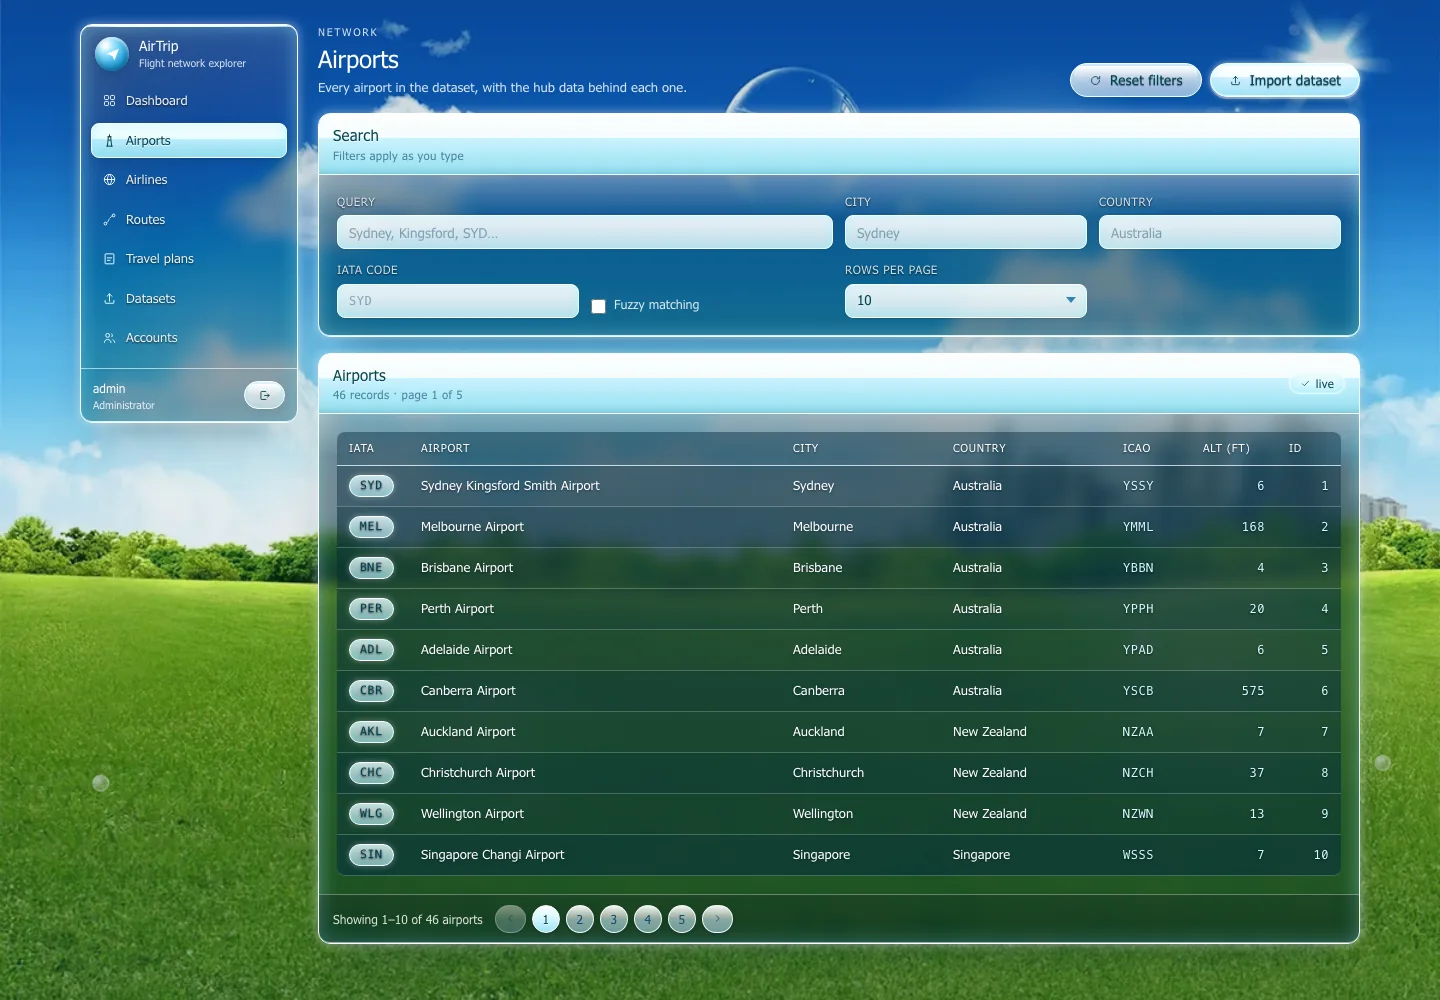
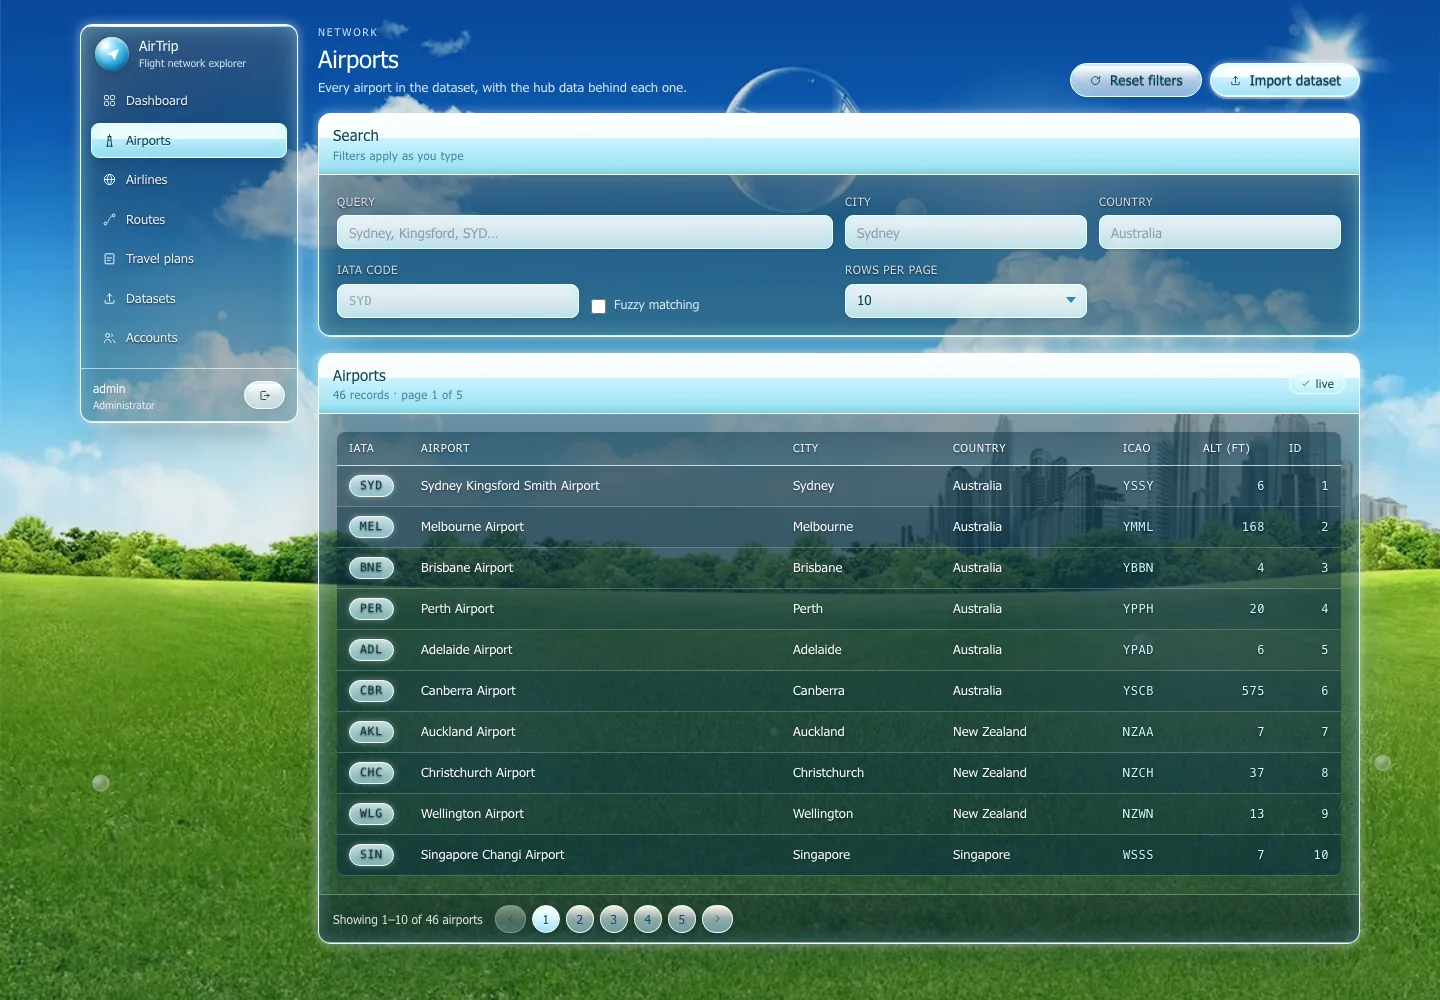
Keep the wallpaper crisp behind the glass
The frosted backdrop is gone: both engines now show the photograph as it is and
the panels only carry tint, rim and glow. ?frost=1 restores the blurred recipe.

diff --git a/airtrip-web/src/styles/theme-aqua.css b/airtrip-web/src/styles/theme-aqua.css
@@ -426,13 +426,23 @@
 /* The css minifier keeps only the last of a prefixed/unprefixed pair, which left
    Chrome without a blur while Safari still used the -webkit- copy. Declaring the
    standard property in its own @supports block keeps both engines frosted. */
+/* The wallpaper stays crisp behind the glass: no backdrop blur anywhere.
+   `?frost=1` restores the blurred recipe if it is ever wanted again. */
+[data-theme='aqua'] .win,
+[data-theme='aqua'] .win-dense,
+[data-theme='aqua'] .tile,
+[data-theme='aqua'] .dialog-veil {
+  backdrop-filter: none;
+  -webkit-backdrop-filter: none;
+}
+
 @supports (backdrop-filter: blur(1px)) {
-  [data-theme='aqua'] .win,
-  [data-theme='aqua'] .win-dense {
+  [data-theme='aqua'][data-frost='on'] .win,
+  [data-theme='aqua'][data-frost='on'] .win-dense {
     backdrop-filter: blur(8px) saturate(1.7) brightness(var(--glass-dim, 0.9));
   }
 
-  [data-theme='aqua'] .tile {
+  [data-theme='aqua'][data-frost='on'] .tile {
     backdrop-filter: blur(2px) saturate(1.2);
   }
 }

diff --git a/airtrip-web/src/main.ts b/airtrip-web/src/main.ts
@@ -8,6 +8,7 @@ import './styles/theme-aqua.css'
 // Aqua is the default skin. `?theme=v0` shows the original blue build and
 // `?bg=css` swaps the photographic wallpaper for the painted sky.
 const params = new URLSearchParams(window.location.search)
+if (params.get('frost') === '1') document.documentElement.setAttribute('data-frost', 'on')
 if (params.get('theme') !== 'v0') {
   document.documentElement.setAttribute('data-theme', 'aqua')
   if (params.get('bg') !== 'css') document.documentElement.setAttribute('data-wallpaper', 'on')
